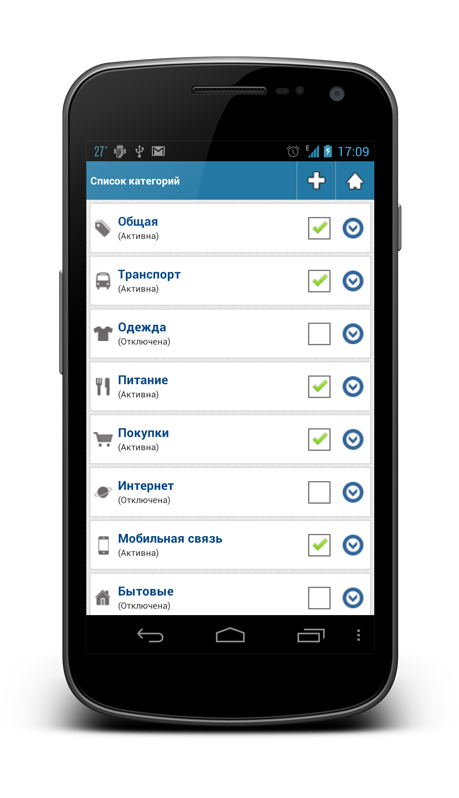
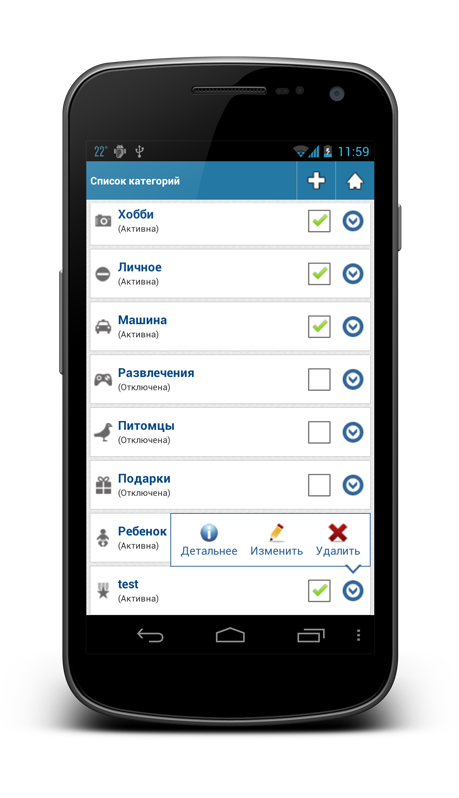
androcoins thumbnails pack

diff --git a/projects.html b/projects.html
@@ -73,6 +73,7 @@
                 <div id="androcoinsCarousel" class="carousel slide project-carousel">
                     <!-- items -->
                     <div class="carousel-inner">
+                        <!-- dashboard -->
                         <div class="active item">
                             <div class="row-fluid">
                                 <div class="span4">
@@ -98,13 +99,81 @@
                                 Быстрый доступ к основным функциям и настройкам приложения</p>
                             </div>
                         </div>
+                        <!-- edit expence screen -->
                         <div class="item">
                             <div class="row-fluid">
                                 <div class="span4">
                                     <a class="thumbnail-without-border" href="#">
-                                        <img src="imgs/a_exp.png" alt="AndroCoins New Expence" />
+                                        <img src="imgs/a_exp.png" alt="AndroCoins Expence" />
                                     </a>
                                 </div>
+                                <div class="span4">
+                                    <a class="thumbnail-without-border" href="#">
+                                        <img src="imgs/a_exp_cat.png" alt="AndroCoins Expence" />
+                                    </a>
+                                </div>
+                                <div class="span4">
+                                    <a class="thumbnail-without-border" href="#">
+                                        <img src="imgs/a_exp_comment.png" alt="AndroCoins Expence" />
+                                    </a>
+                                </div>
+                            </div>
+                            <div class="carousel-caption">
+                                <h4>Добавление записи о новом расходе</h4>
+                                <br/>
+                                <p>Добавление нового или редактирование существующего расхода.
+                                    Ввод комментария к расходу. Выбор категории расхода</p>
+                            </div>
+                        </div>
+                        <!-- categories screen -->
+                        <div class="item">
+                            <div class="row-fluid">
+                                <div class="span4">
+                                    <a class="thumbnail-without-border" href="#">
+                                        <img src="imgs/a_cats.png" alt="AndroCoins Categories" />
+                                    </a>
+                                </div>
+                                <div class="span4">
+                                    <a class="thumbnail-without-border" href="#">
+                                        <img src="imgs/a_cat_details.png" alt="AndroCoins Categories" />
+                                    </a>
+                                </div>
+                                <div class="span4">
+                                    <a class="thumbnail-without-border" href="#">
+                                        <img src="imgs/a_cats_edit.png" alt="AndroCoins Categories" />
+                                    </a>
+                                </div>
+                            </div>
+                            <div class="carousel-caption">
+                                <h4>Категории расходов</h4>
+                                <br/>
+                                <p>Управление списком категорий расходов. Просмотр статистики по отдельной категории.</p>
+                            </div>
+                        </div>
+                        <!-- edit today and reports -->
+                        <div class="item">
+                            <div class="row-fluid">
+                                <div class="span4">
+                                    <a class="thumbnail-without-border" href="#">
+                                        <img src="imgs/a_today.png" alt="AndroCoins Reports" />
+                                    </a>
+                                </div>
+                                <div class="span4">
+                                    <a class="thumbnail-without-border" href="#">
+                                        <img src="imgs/a_rep_today.png" alt="AndroCoins Reports" />
+                                    </a>
+                                </div>
+                                <div class="span4">
+                                    <a class="thumbnail-without-border" href="#">
+                                        <img src="imgs/a_rep_week.png" alt="AndroCoins Reports" />
+                                    </a>
+                                </div>
+                            </div>
+                            <div class="carousel-caption">
+                                <h4>Расходы: редактирование и статистика</h4>
+                                <br/>
+                                <p>Редактирование расходов за текущий день. Просмотр статистической информации о
+                                зарегистрированнх отчетах за разные периоды времени.</p>
                             </div>
                         </div>
                     </div>
